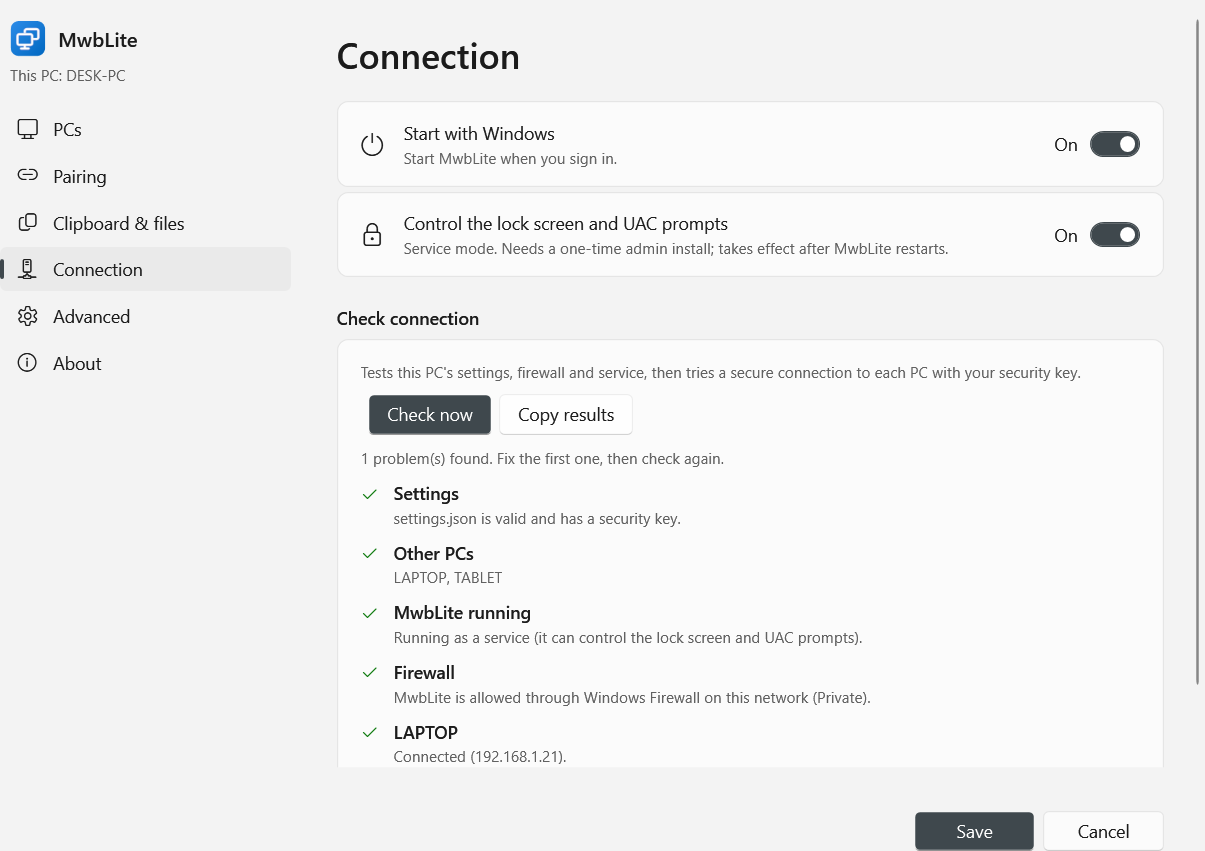
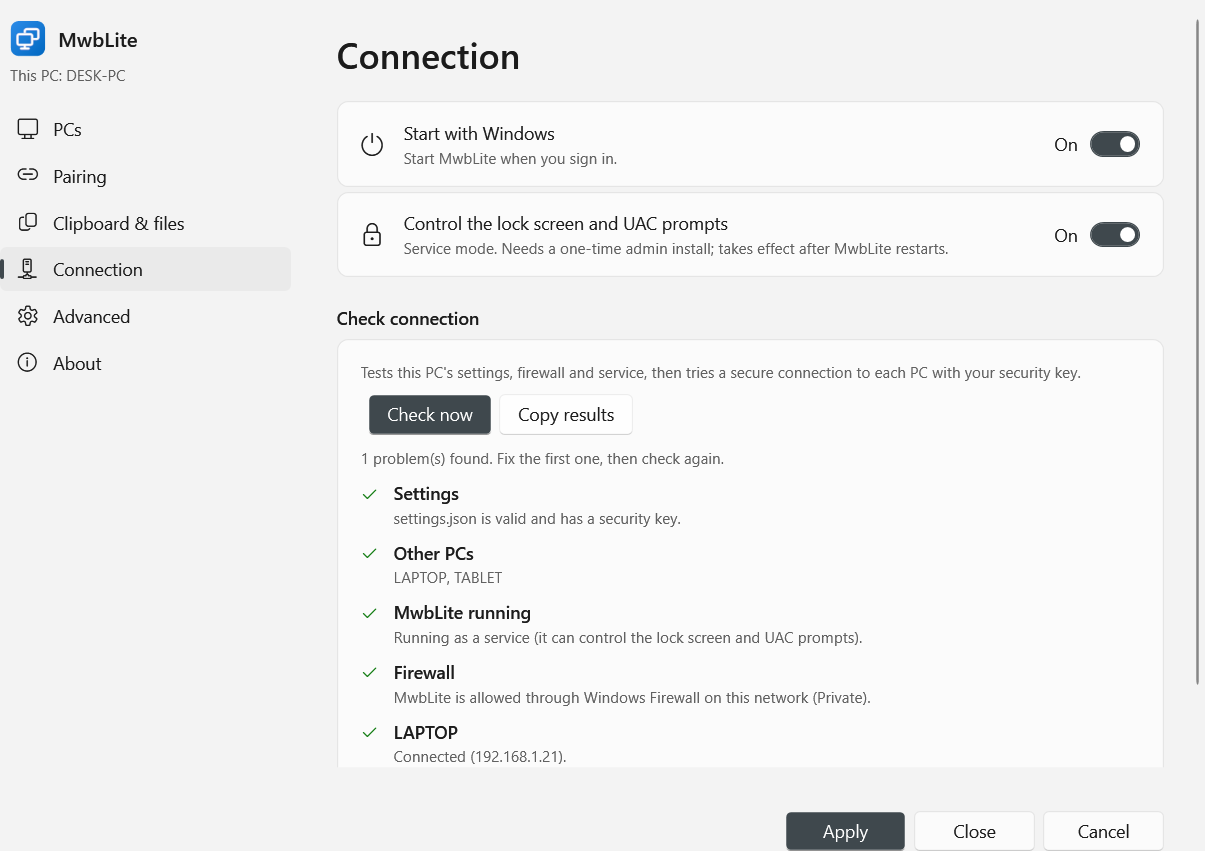
Version 0.8.3: Settings buttons are Apply, Close and Cancel
Apply validates, saves and applies, keeping the window open; Close asks
whether to apply unapplied changes; Cancel discards them and closes.
Ctrl+S applies, Esc closes. Docs, test plan and screenshots updated.

Changed region(s): [[0.6448, 0.9471, 0.8598, 1.0]]

diff --git a/src/App/Lite/Ui/SettingsWindow.cs b/src/App/Lite/Ui/SettingsWindow.cs
@@ -120,7 +120,7 @@ namespace MouseWithoutBorders.Lite.Ui
         private LiteConfig loaded;
         private string baseline;
         private bool commentsAcknowledged;
-        private bool closingAfterSave;
+        private bool skipClosePrompt;
 
         private SettingsWindow(string settingsPath, LiteConfig config, Action<LiteConfig> afterSave)
         {
@@ -286,7 +286,11 @@ namespace MouseWithoutBorders.Lite.Ui
 
             // Footer
             var footer = new DockPanel { Margin = new Thickness(28, 10, 32, 16), LastChildFill = true };
-            var buttons = Kit.Horizontal(Kit.Button("Save", (_, _) => SaveAndApply(), accent: true), Kit.Button("Cancel", (_, _) => Close()));
+            // Apply saves and applies but keeps the window open; Close asks about unapplied changes; Cancel discards them.
+            var buttons = Kit.Horizontal(
+                Kit.Button("Apply", (_, _) => Apply(), accent: true),
+                Kit.Button("Close", (_, _) => Close()),
+                Kit.Button("Cancel", (_, _) => CancelAndClose()));
             DockPanel.SetDock(buttons, Dock.Right);
             footer.Children.Add(buttons);
             footer.Children.Add(message);
@@ -309,7 +313,7 @@ namespace MouseWithoutBorders.Lite.Ui
                 Kit.Card(Kit.Stack(
                     Kit.Horizontal(oneRow, twoRows),
                     layoutView,
-                    Kit.Hint("Drag the PCs to match where they sit. The cursor crosses to a PC by leaving the screen on that side. Double-click to rename or add, Delete to remove. Other PCs follow when you save."))),
+                    Kit.Hint("Drag the PCs to match where they sit. The cursor crosses to a PC by leaving the screen on that side. Double-click to rename or add, Delete to remove. Other PCs follow when you apply."))),
                 Kit.Row("", "Wrap the cursor around the outer edges", "Leaving the last PC brings the cursor back to the first.", wrapMouse),
                 Kit.Row("", "Add this PC to the layout", "Puts " + ThisPc + " in the first empty slot.", addThis),
                 Kit.Section("Status"),
@@ -549,7 +553,8 @@ namespace MouseWithoutBorders.Lite.Ui
 
         // ---- actions --------------------------------------------------------------------------------------
 
-        private bool SaveAndApply()
+        /// <summary>Validates, saves and applies the settings; the window stays open. False if nothing was saved.</summary>
+        private bool Apply()
         {
             var cfg = ReadValues();
             var errors = cfg.Validate(out _);
@@ -587,23 +592,29 @@ namespace MouseWithoutBorders.Lite.Ui
 
             loaded = cfg;
             baseline = Canonical(cfg);
-            closingAfterSave = true;
-            Close();
+            SetMessage("Applied.", ok: true);
             afterSave?.Invoke(cfg);
             return true;
+        }
+
+        /// <summary>Closes without saving: unapplied changes are discarded.</summary>
+        private void CancelAndClose()
+        {
+            skipClosePrompt = true;
+            Close();
         }
 
         private void OnClosing(object sender, System.ComponentModel.CancelEventArgs e)
         {
             statusTimer.Stop();
             checkCts?.Cancel();
-            if (closingAfterSave || !HasUnsavedChanges())
+            if (skipClosePrompt || !HasUnsavedChanges())
             {
                 return;
             }
 
-            MessageBoxResult answer = WpfMessageBox.Show(this, "Save your changes?", Title, MessageBoxButton.YesNoCancel, MessageBoxImage.Question);
-            if (answer == MessageBoxResult.Cancel || (answer == MessageBoxResult.Yes && !SaveAndApply()))
+            MessageBoxResult answer = WpfMessageBox.Show(this, "Apply your changes before closing?", Title, MessageBoxButton.YesNoCancel, MessageBoxImage.Question);
+            if (answer == MessageBoxResult.Cancel || (answer == MessageBoxResult.Yes && !Apply()))
             {
                 e.Cancel = true;
                 statusTimer.Start();
@@ -627,7 +638,7 @@ namespace MouseWithoutBorders.Lite.Ui
         {
             if (HasUnsavedChanges())
             {
-                SetMessage("Save your changes first, then pair.", ok: false);
+                SetMessage("Apply your changes first, then pair.", ok: false);
                 return;
             }
 
@@ -820,7 +831,7 @@ namespace MouseWithoutBorders.Lite.Ui
             base.OnKeyDown(e);
             if (e.Key == Key.S && Keyboard.Modifiers == ModifierKeys.Control)
             {
-                _ = SaveAndApply();
+                _ = Apply();
                 e.Handled = true;
             }
             else if (e.Key == Key.Escape)

diff --git a/src/App/Lite/Ui/SettingsWindow.About.cs b/src/App/Lite/Ui/SettingsWindow.About.cs
@@ -237,7 +237,7 @@ namespace MouseWithoutBorders.Lite.Ui
 
             if (HasUnsavedChanges())
             {
-                SetMessage("Save or undo your changes first, then update.", ok: false);
+                SetMessage("Apply or cancel your changes first, then update.", ok: false);
                 return;
             }
 
@@ -253,7 +253,7 @@ namespace MouseWithoutBorders.Lite.Ui
                 updateStatus.Text = "Starting Setup…";
                 updateDetail.Text = "MwbLite closes while Setup runs, then starts again.";
                 LiteUpdate.RunSetup(setup);
-                closingAfterSave = true; // nothing to save; don't ask
+                skipClosePrompt = true; // nothing to save; don't ask
                 Close();
             }
             catch (OperationCanceledException)

diff --git a/docs/TEST-PLAN.md b/docs/TEST-PLAN.md
@@ -32,7 +32,7 @@ Record each result in the **Result** column of each table (✅ pass / ❌ fail /
 
 | # | Step | Expected | Result |
 |---|---|---|---|
-| 2.1 | On **A**, open **Settings**, turn on **Start with Windows** (Connection), press **Save**. | Balloon: "Configuration reloaded." | |
+| 2.1 | On **A**, open **Settings**, turn on **Start with Windows** (Connection), press **Apply**. | Balloon: "Configuration reloaded." | |
 | 2.2 | On **A**: Settings > **Add a PC…** | A window says it is waiting for a PC to join. | |
 | 2.3 | On **B**: Settings > **Join…** | Within a few seconds **A**'s name appears in the list. (If not, type A's computer name in the box below the list.) | |
 | 2.4 | On **B**, select A and press **Join**. | Both windows show the **same** 6-digit code. A's window says "B wants to join". | |
@@ -43,7 +43,7 @@ Record each result in the **Result** column of each table (✅ pass / ❌ fail /
 | 2.9 | If a Windows Firewall prompt appeared on either machine, allow **Private** networks. (With Setup, the rules are added automatically.) | — | |
 | 2.10 | **Wrong key:** in Settings on B, open Advanced, change one character of the security key and save. | A and B stop working together (B can't be reached from A). The logs show connection or handshake errors. | |
 | 2.11 | Pair again with a code (2.2–2.5). Also try typing a 10-character key in Settings and saving. | They reconnect. The short key is refused with a red message. | |
-| 2.12 | **Arrange:** on A, drag B's tile onto A's tile on the PCs page (order becomes `B, A`) and press Save. Then exit and restart MwbLite on B. | B's Settings shows the new order, both before and after the restart. | |
+| 2.12 | **Arrange:** on A, drag B's tile onto A's tile on the PCs page (order becomes `B, A`) and press Apply. Then exit and restart MwbLite on B. | B's Settings shows the new order, both before and after the restart. | |
 ## 3. Cursor crossing the screen edge
 
 | # | Step | Expected | Result |
@@ -121,7 +121,7 @@ Record each result in the **Result** column of each table (✅ pass / ❌ fail /
 
 | # | Step | Expected | Result |
 |---|---|---|---|
-| 7.1 | In Settings > Connection, turn on **Control the lock screen and UAC prompts** and **Start with Windows**, press **Save**, and approve the UAC prompt. Then Exit MwbLite from the tray and start it again from the Start menu. | No errors. | |
+| 7.1 | In Settings > Connection, turn on **Control the lock screen and UAC prompts** and **Start with Windows**, press **Apply**, and approve the UAC prompt. Then Exit MwbLite from the tray and start it again from the Start menu. | No errors. | |
 | 7.2 | `sc qc MwbLite.Service` | `BINARY_PATH_NAME` is `"C:\Program Files\MwbLite\MwbLite.exe" --service`, `START_TYPE` is `DEMAND_START`. | |
 | 7.3 | `netsh advfirewall firewall show rule name=MwbLite` | Inbound, Allow, Protocol TCP, RemoteIP LocalSubnet, Program `C:\Program Files\MwbLite\MwbLite.exe`. | |
 | 7.4 | Task Manager > Details, User name column. | Two `MwbLite.exe` running as **SYSTEM**, plus `MwbLite.Helper.exe` running as you. | |
@@ -147,9 +147,9 @@ Record each result in the **Result** column of each table (✅ pass / ❌ fail /
 | 8b.3 | Tray icon with all PCs connected, then turn one PC's Wi-Fi off, then back on. | Green dot → (about 20 s) red dot → amber while reconnecting → green. Hover text matches. | |
 | 8b.4 | Windows Settings > Personalisation > Colours: switch between Light and Dark. | The tray glyph changes between black and white within about 30 s. Settings opened afterwards follows the mode. | |
 | 8b.5 | Open Settings. Visit each page. | Windows 11 look: sidebar with a highlight pill, cards, switches. The PCs page shows each PC's live state on its tile and in the status list. | |
-| 8b.6 | On the PCs page: arrow keys, Ctrl+arrow, F2 (type a name, Enter), Delete, drag a tile. | Selection moves, tiles move and swap, rename and remove work; nothing saves until **Save**. | |
-| 8b.7 | Change something and close the window. | "Save your changes?" Yes saves, No discards, Cancel keeps the window open. | |
-| 8b.8 | In normal mode (no service), change **Wrap the cursor** and Save. | The running MwbLite applies it within a second ("Configuration reloaded" balloon); no Reload needed. | |
+| 8b.6 | On the PCs page: arrow keys, Ctrl+arrow, F2 (type a name, Enter), Delete, drag a tile. | Selection moves, tiles move and swap, rename and remove work; nothing saves until **Apply**. | |
+| 8b.7 | Change something, press **Apply**; change something else and press **Close**; then change again and press **Cancel**. | Apply saves and the window stays open ("Applied."). Close asks "Apply your changes before closing?" (Yes applies, No discards, Cancel keeps the window open). Cancel closes without asking and the last change is not saved. | |
+| 8b.8 | In normal mode (no service), change **Wrap the cursor** and press Apply. | The running MwbLite applies it within a second ("Configuration reloaded" balloon); no Reload needed. | |
 | 8b.9 | Display scaling 150% (Windows Settings > Display), then open Settings and copy a large file. | Settings, the tray icon and the progress window are sharp, not blurry. | |
 | 8b.10 | Run Setup. | The version is on the banner (white "VERSION x.y.z" badge), in the title bar and in the Install heading. | |
 | 8b.11 | Settings > About. | Version and build, details (Copy details works), links open GitHub / the licence / notices. Within a few seconds: "You're up to date" (or the newer version and its notes). | |

diff --git a/README.md b/README.md
@@ -97,7 +97,7 @@ MwbLite starts in the tray. On first run it creates `%LOCALAPPDATA%\MwbLite\sett
 security key and shows a balloon. Left-click the tray icon to open **Settings** (see
 [Settings window](#settings-window)).
 
-**First PC** (e.g. the mini PC): turn on **Start with Windows** (Connection page) and press **Save**. Its random key is the
+**First PC** (e.g. the mini PC): turn on **Start with Windows** (Connection page) and press **Apply**. Its random key is the
 one every PC will use.
 
 **Each other PC**, one at a time, with both PCs on the same network:
@@ -119,7 +119,7 @@ machine names everywhere. See [How pairing works](#how-pairing-works).
 
 ### Lock screen and UAC prompts (service mode)
 
-1. In Settings > Connection, turn on **Control the lock screen and UAC prompts**, press **Save**, and approve the UAC prompt. That copies your
+1. In Settings > Connection, turn on **Control the lock screen and UAC prompts**, press **Apply**, and approve the UAC prompt. That copies your
    settings to `%ProgramData%\MwbLite`, a folder only SYSTEM and Administrators can read (see
    [Security notes](#security-notes)).
 2. Exit MwbLite from the tray and start it again from the Start menu (or sign out and back in).
@@ -202,13 +202,14 @@ sidebar, cards and switches, and light or dark mode following Windows (it uses W
   name-to-IP mappings, the less common switches, **Allow older versions**, and **Open in Notepad**.
 - **About.** Version and details, links, the update status and **Update now** (see
   [Updates and the About page](#updates-and-the-about-page)).
-- **Save** (or Ctrl+S) validates first, using the same checks as Reload config. If something is wrong, the window
-  stays open and the problem is shown in red at the bottom. Otherwise it writes settings.json and the running
-  MwbLite picks it up:
+- **Apply** (or Ctrl+S) validates first, using the same checks as Reload config. If something is wrong, the
+  problem is shown in red at the bottom. Otherwise it writes settings.json, the running MwbLite picks it up, and the
+  window stays open:
   - **Normal mode:** MwbLite notices the saved file and reloads straight away.
   - **Service mode:** a UAC prompt copies it to the service's protected copy.
   - **Service mode turned on but not installed yet:** the window offers the one-time install.
-- Closing with unsaved changes asks whether to save them.
+- **Close** (or Esc) closes the window; if there are changes you haven't applied, it asks whether to apply them.
+  **Cancel** discards them and closes.
 - **Saving rewrites settings.json.** Comments are removed (you're asked first), and the previous file is kept as
   `settings.json.bak`. Values the window doesn't show (e.g. `easyMouseFullscreenExcludedApps`) are kept.
 - **It runs as you, in its own process** (`MwbLite.exe --settings`), never as SYSTEM, in normal and service mode
@@ -219,7 +220,7 @@ sidebar, cards and switches, and light or dark mode following Windows (it uses W
 ## Arranging the PCs
 
 Open Settings and drag the tiles on the **PCs** page until they match where the PCs sit on your desk,
-then press **Save**. The cursor moves to a PC by leaving the screen on that side.
+then press **Apply**. The cursor moves to a PC by leaving the screen on that side.
 
 - **One row:** tiles left to right. With `LAPTOP1, MINIPC, LAPTOP2`, the mini PC's left edge leads to LAPTOP1 and
   its right edge to LAPTOP2.
@@ -291,7 +292,7 @@ Settings > Connection > **Check now** tests, in order:
 The file is JSON. `//` comments and trailing commas are allowed. Three things write it:
 
 - MwbLite creates it when it's missing.
-- The Settings window rewrites it when you press **Save**, or after pairing.
+- The Settings window rewrites it when you press **Apply**, or after pairing.
 - A layout change received from another of your PCs (machines, one row/two rows, wrap) is saved into it.
 
 Each write keeps the previous file as `settings.json.bak`.

diff --git a/CHANGELOG.md b/CHANGELOG.md
@@ -3,6 +3,11 @@
 Each version's section is also its GitHub Release notes (see `tools/publish-release.ps1`), and Settings > About
 shows them for the latest release. Upgrade every PC to the same version.
 
+## 0.8.3
+
+- Settings has **Apply**, **Close** and **Cancel**: Apply saves and applies your changes and keeps the window open,
+  Close asks about changes you haven't applied, Cancel discards them.
+
 ## 0.8.2
 
 - **Same mouse speed on every PC is now on by default** for new installs: MwbLite sends the mouse's movement, so
